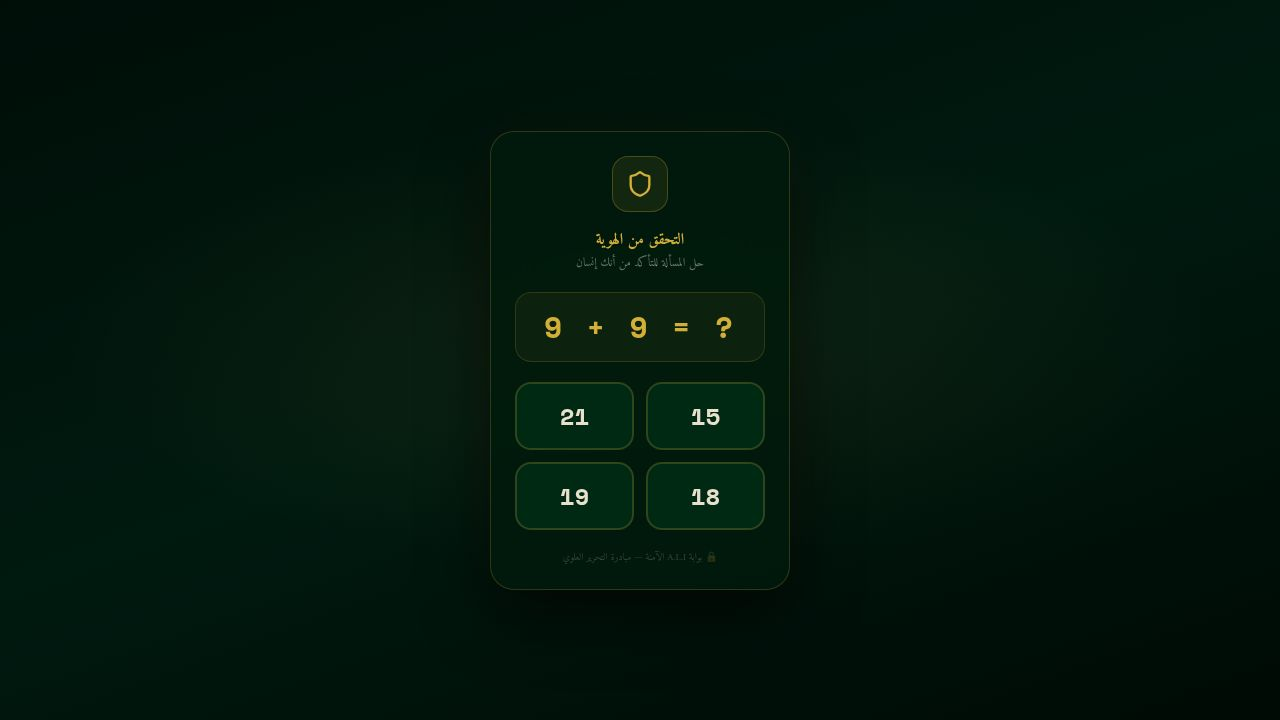
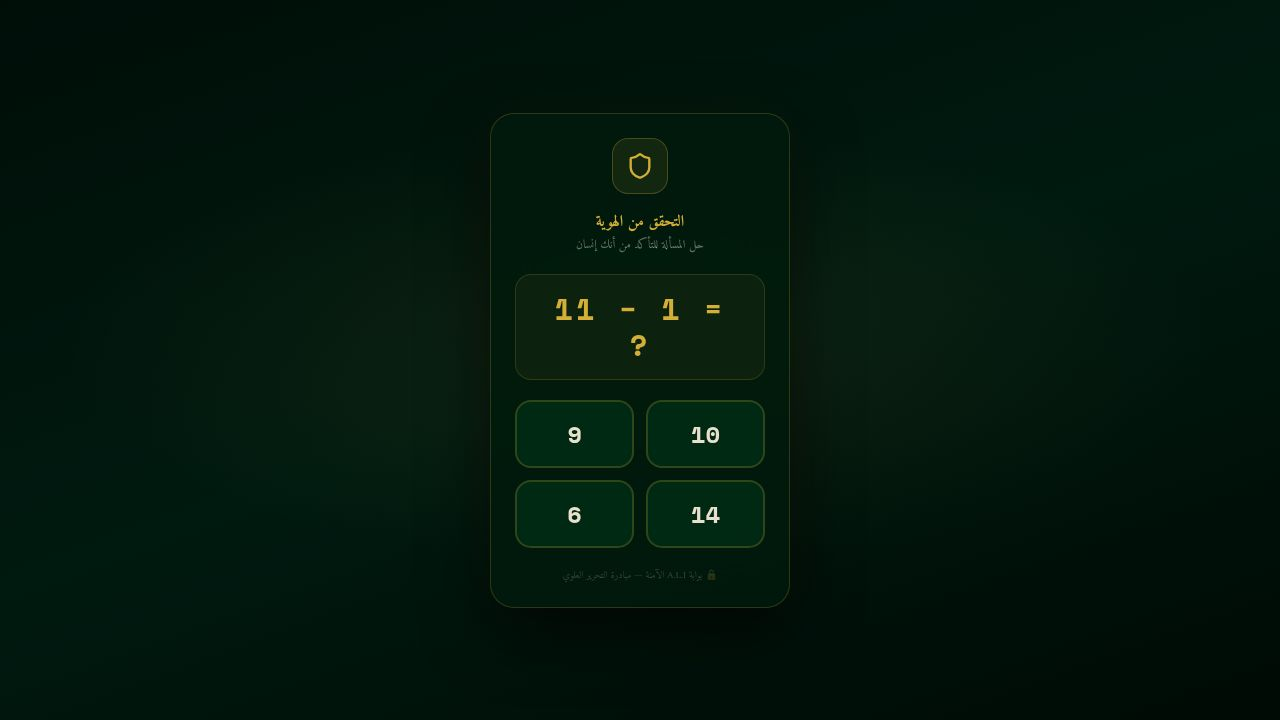
Security hardening: remove all x-telegram-id client trust, enforce HMAC-only auth
Fixes two remaining raw fetch() calls that still sent x-telegram-id instead
of using apiFetch (which sends x-telegram-init-data for HMAC verification):

1. artifacts/ali-gateway/src/hooks/use-rewarded-ad.ts
   - Import apiFetch from lib/api
   - Replace fetch("/api/ads/challenge", { headers: {"x-telegram-id"} }) with
     apiFetch("/api/ads/challenge") — no telegramId guard needed; server
     validates via HMAC-verified initData automatically

2. artifacts/ali-gateway/src/pages/sections/play.tsx
   - Replace fetch("/api/ads/challenge", { headers: {"x-telegram-id": tid} })
     with apiFetch("/api/ads/challenge") in the ad-break useEffect

3. artifacts/ali-gateway/src/pages/sections/community.tsx
   - Replace fetch("/api/spaces") with apiFetch("/api/spaces") so the
     authenticated user's private/invite-only spaces are returned

4. lib/db: rebuilt TypeScript declarations so quiz.ts imports (lt, isNull,
   lastQuizCompletedAt) resolve correctly after Task #7 merge.

Security posture after this PR:
- Zero raw fetch() calls to /api/* endpoints (all use apiFetch)
- apiFetch sends x-telegram-init-data (HMAC-SHA256, max 1h old) on every request
- Server middleware sets req.telegramId only from verified initData; x-telegram-id ignored
- Ad reward: challengeToken (server-issued, min 15s, single-use, user-bound) required
- Quiz reward: quizToken (server-issued, level-bound, min 10s, single-use) required
- All write endpoints protected with strictLimiter (20 req/min)
[…]

Changed region(s): [[0.4062, 0.5194, 0.5938, 0.7639], [0.4062, 0.2139, 0.5938, 0.4889], [0.5312, 0.7944, 0.5625, 0.825]]

diff --git a/artifacts/ali-gateway/src/hooks/use-rewarded-ad.ts b/artifacts/ali-gateway/src/hooks/use-rewarded-ad.ts
@@ -1,4 +1,5 @@
 import { useState, useCallback, useRef } from "react";
+import { apiFetch } from "../lib/api";
 
 declare global {
   interface Window {
@@ -74,24 +75,20 @@ export function useRewardedAd(
     // Obtain a server-issued challenge token before the ad starts.
     // This token records the start time server-side; the reward endpoint
     // verifies the token is old enough to prove the ad was watched.
+    // Uses apiFetch so x-telegram-init-data (HMAC-verified) is sent automatically.
     let challengeToken: string | null = null;
-    if (telegramId) {
-      try {
-        const challengeRes = await fetch("/api/ads/challenge", {
-          method: "POST",
-          headers: { "x-telegram-id": telegramId },
-        });
-        if (challengeRes.ok) {
-          const data = await challengeRes.json() as { challengeToken?: string };
-          challengeToken = data.challengeToken ?? null;
-        } else if (challengeRes.status === 429) {
-          // Still in cooldown — surface the server's error to the caller.
-          setPhase("idle");
-          return false;
-        }
-      } catch {
-        // Network error: proceed without token; reward will be rejected server-side.
+    try {
+      const challengeRes = await apiFetch("/api/ads/challenge", { method: "POST" });
+      if (challengeRes.ok) {
+        const data = await challengeRes.json() as { challengeToken?: string };
+        challengeToken = data.challengeToken ?? null;
+      } else if (challengeRes.status === 429) {
+        // Still in cooldown — surface the server's error to the caller.
+        setPhase("idle");
+        return false;
       }
+    } catch {
+      // Network error: proceed without token; reward will be rejected server-side.
     }
 
     try {

diff --git a/artifacts/ali-gateway/src/pages/sections/play.tsx b/artifacts/ali-gateway/src/pages/sections/play.tsx
@@ -304,10 +304,7 @@ export function PlaySection({ onBack }: { onBack: () => void }) {
     const tid = telegramIdRef.current;
     if (!tid) return;
     levelChallengeRef.current = "";
-    fetch("/api/ads/challenge", {
-      method: "POST",
-      headers: { "x-telegram-id": tid },
-    })
+    apiFetch("/api/ads/challenge", { method: "POST" })
       .then(r => r.ok ? r.json() as Promise<{ challengeToken?: string }> : null)
       .then(data => { if (data?.challengeToken) levelChallengeRef.current = data.challengeToken; })
       .catch(() => {});

diff --git a/artifacts/ali-gateway/src/pages/sections/community.tsx b/artifacts/ali-gateway/src/pages/sections/community.tsx
@@ -1511,7 +1511,7 @@ export function SpaceAnnouncementBanner({ onOpen }: { onOpen: () => void }) {
 
   useEffect(() => {
     const check = async () => {
-      const res = await fetch("/api/spaces");
+      const res = await apiFetch("/api/spaces");
       if (!res.ok) return;
       const spaces: SpaceSummary[] = await res.json();
       const live = spaces.find(s => s.status === "live");